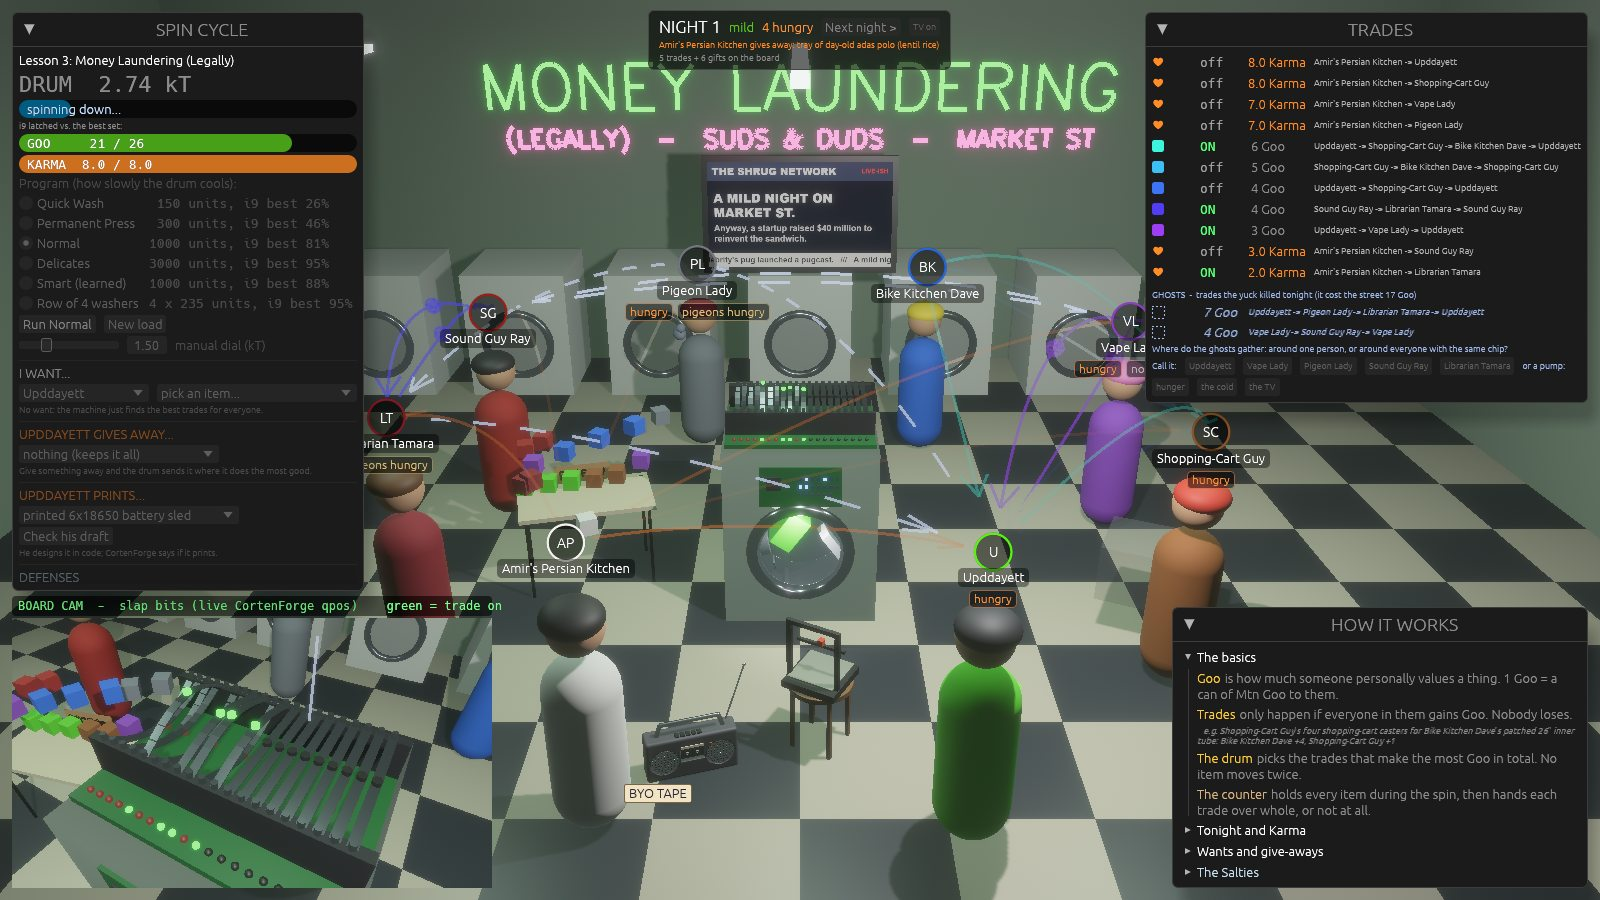
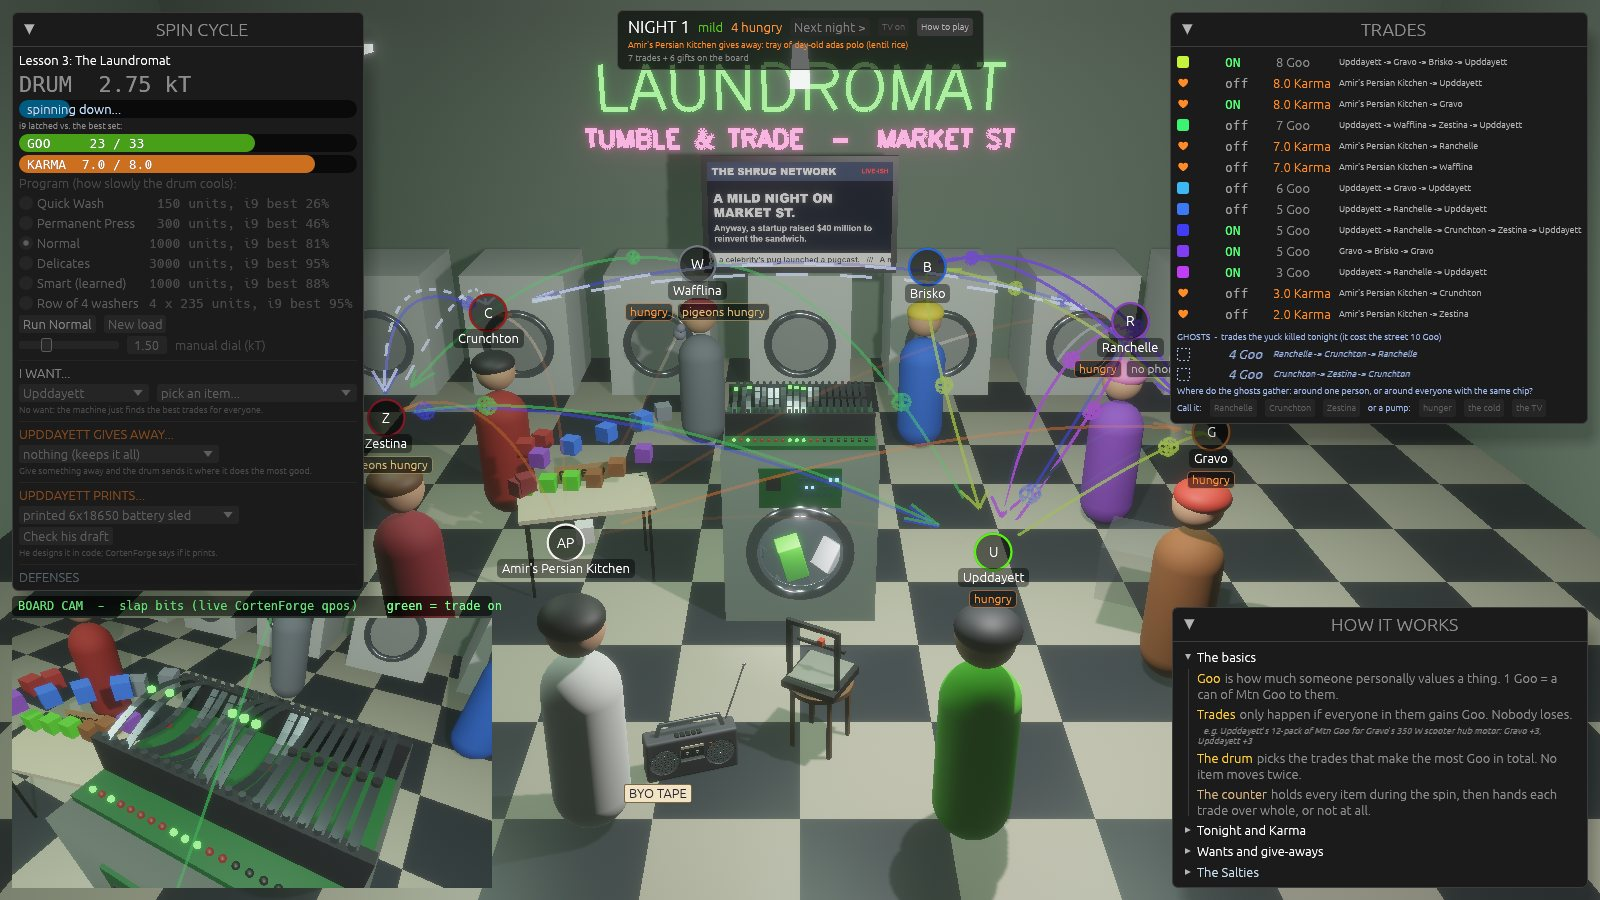
Lesson 3 is The Laundromat (was Money Laundering (Legally)); fresh site screenshots
Title card, window title, side panel, module docs, DESIGN, PLAN and the
site's Machine page. site/img/spin-{hot,locked}.jpg reshot on night 1
(UPD_SEED=1 UPD_SHOT=1): the LAUNDROMAT sign, Tumble & Trade and the new
names. Night 1's board is unchanged by the renames (trade_cli run diffed).

diff --git a/site/machine/index.html b/site/machine/index.html
@@ -30,7 +30,7 @@
 
 <header class="hero col">
   <div class="street" aria-hidden="true"><span class="downtown"></span><span class="lowrider"><span class="body"></span><span class="wheel rear"></span><span class="wheel front"></span></span></div>
-  <div class="eyebrow">Upddayett's School of Biddness · Lesson 3 · Money Laundering (Legally)</div>
+  <div class="eyebrow">Upddayett's School of Biddness · Lesson 3 · The Laundromat</div>
   <h1>The Laundromat Trade Machine</h1>
   <p class="lede">The big washer at the back of Upddayett's laundromat isn't washing anything. It's a computer. Every night it works out who on Market St should swap what with whom, so everybody goes home better off. It does that with physics: a drum full of springy steel strips, shaken hot and cooled slowly, until the strips settle into the answer.</p>
   <div class="readout" aria-label="Night 1 at a glance">

diff --git a/src/game/cards.rs b/src/game/cards.rs
@@ -197,7 +197,7 @@ pub fn draw(
             p.rect_filled(screen, 0.0, egui::Color32::from_black_alpha(185));
             chunky(&p, &family, c + egui::vec2(0.0, -h * 0.24), "UPDDAYETT'S", h * 0.07, egui::Color32::WHITE, egui::Color32::from_gray(60));
             chunky(&p, &family, c + egui::vec2(0.0, -h * 0.12), "SCHOOL OF BIDDNESS", h * 0.1, GOO, GOO_DARK);
-            let pill = "LESSON 3: MONEY LAUNDERING (LEGALLY)";
+            let pill = "LESSON 3: THE LAUNDROMAT";
             let size = fit(&p, &family, pill, screen.width() * 0.8, h * 0.032);
             let text_w = p.layout_no_wrap(pill.to_string(), egui::FontId::new(size, family.clone()), egui::Color32::WHITE).size().x;
             let lesson = egui::Rect::from_center_size(c + egui::vec2(0.0, h * 0.02), egui::vec2(text_w + size * 1.6, size * 2.2));

diff --git a/src/main.rs b/src/main.rs
@@ -1,4 +1,4 @@
-//! Upddayett's School of Biddness. Lesson 3: Money Laundering (Legally).
+//! Upddayett's School of Biddness. Lesson 3: The Laundromat.
 
 mod game;
 
@@ -14,7 +14,7 @@ fn main() {
     App::new()
         .add_plugins(DefaultPlugins.set(WindowPlugin {
             primary_window: Some(Window {
-                title: "Upddayett's School of Biddness - Lesson 3: Money Laundering (Legally)".into(),
+                title: "Upddayett's School of Biddness - Lesson 3: The Laundromat".into(),
                 resolution: (w, h).into(),
                 // `UPD_BENCH=1` times frames, so it runs uncapped.
                 present_mode: if std::env::var_os("UPD_BENCH").is_some() { bevy::window::PresentMode::AutoNoVsync } else { default() },

diff --git a/src/game/ui.rs b/src/game/ui.rs
@@ -252,7 +252,7 @@ pub fn panels(
             let room = board_cam_top - 12.0 - ui.cursor().min.y;
             egui::ScrollArea::vertical().max_height(room).min_scrolled_height(room).show(ui, |ui| {
                 if !small {
-                    ui.label(egui::RichText::new("Lesson 3: Money Laundering (Legally)").strong());
+                    ui.label(egui::RichText::new("Lesson 3: The Laundromat").strong());
                 }
                 ui.label(egui::RichText::new(format!("DRUM  {:.2} kT", lm.temperature() * lm.physics.k_b_t)).monospace().size(side(22.0, 18.0)));
                 match lm.mode {

diff --git a/src/trade/mod.rs b/src/trade/mod.rs
@@ -1,4 +1,4 @@
-//! Lesson 3, "Money Laundering (Legally)": a laundromat trade computer.
+//! Lesson 3, "The Laundromat": a laundromat trade computer.
 //!
 //! Customers bring haves and wants ([`world`]). Every closed giving loop in
 //! which everybody comes out ahead is a candidate trade ([`cycles`]). Picking

diff --git a/docs/DESIGN.md b/docs/DESIGN.md
@@ -94,7 +94,7 @@ Sample voice:
 | --- | --- | --- | --- | --- |
 | 1. Tentzhen | The Loin | Two-channel scope from the scrap i9; now he can see volts | (instrument; probes every later build) | Dumpster Intern |
 | 2. Hub Motor Hustle | The Loin | Balance bot from a dead scooter motor; carries groceries for tent 4 | `sim::core` derivatives, LQR | Tent Entrepreneur |
-| 3. Money Laundering (Legally) | Laundromat | Trade computer of salvaged slap bits | `sim::thermostat` | Library Card Holder |
+| 3. The Laundromat | Laundromat | Trade computer of salvaged slap bits | `sim::thermostat` | Library Card Holder |
 | 4. Pimpin' | Shenzhen | Companion bots, ENIG gold boards, bots run the biz | `sim::coupling` | Small Biddness Owner, then Pimpin' (ENIG Certified) |
 
 - ENIG in-game = "Ever Notice I'm Gold". Cane = soldering iron, cup = flux pot,
@@ -233,7 +233,7 @@ AI roasts the rest with a real result.
 - **Endgame (optional):** one Saltie gets a bench kit too. No speech; they
   quietly start building something.
 
-## The slice lesson: Money Laundering (Legally)
+## The slice lesson: The Laundromat
 
 Portland bike-part trades almost work but rarely match one-to-one. Customers
 drop off laundry with haves and wants. Each candidate trade is a bit; springs
@@ -575,8 +575,8 @@ the player helps it along. A proposal; nothing is built yet.
   - the barn's power budget;
   - time: the market-share curve creeps up night by night.
 - **Open questions:**
-  - the lesson's name ("Lesson 4: Shell Companies (Legally)" would echo
-    Lesson 3);
+  - the lesson's name ("Lesson 4: Shell Companies (Legally)" echoed
+    Lesson 3's old name; Lesson 3 is now plainly "The Laundromat");
   - the cores' names (the brand names above are placeholders);
   - which request first (the barn computer reuses Upddayett's printer);
   - whether heat joins the Salties or replaces them.

diff --git a/docs/PLAN.md b/docs/PLAN.md
@@ -1,6 +1,6 @@
 # Build plan: the few-hour slice
 
-Slice = Lesson 3, **Money Laundering (Legally)**: a laundromat trade computer
+Slice = Lesson 3, **The Laundromat** (named "Money Laundering (Legally)" until 2026-10-07): a laundromat trade computer
 whose bits are simulated by `cortenforge::sim::thermostat`. See `DESIGN.md`.
 
 Status (2026-10-06): **Steps 1 and 2 done** (trade computer in `src/trade/`,
